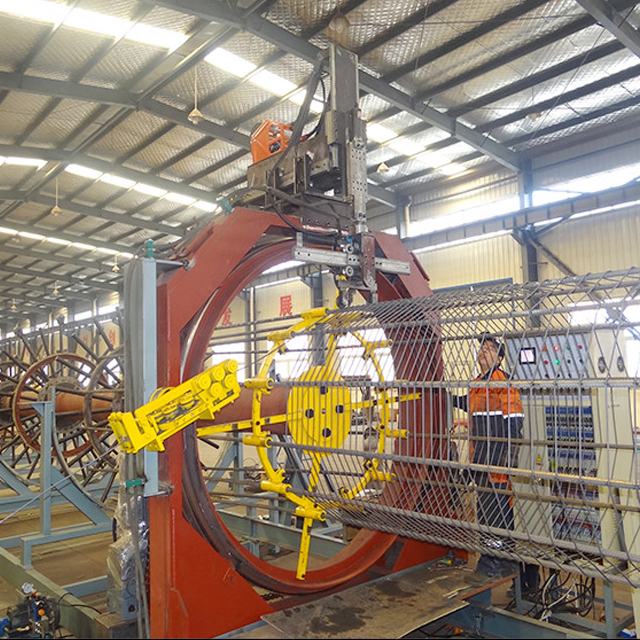
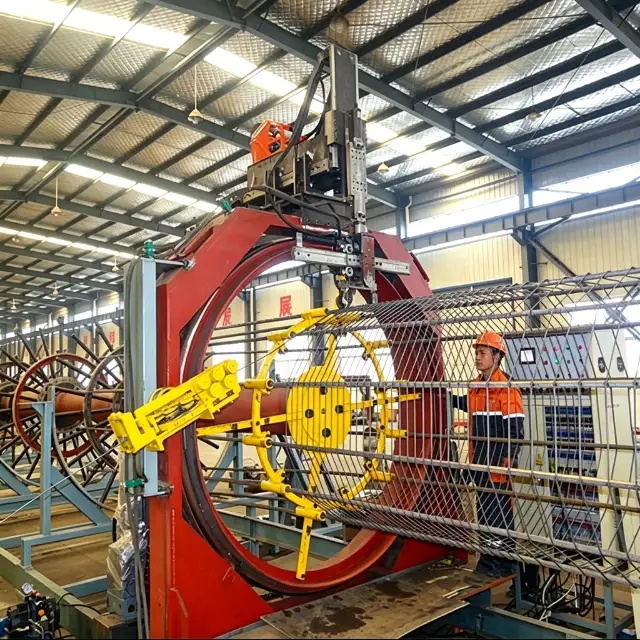
Refine spun pile landing page visuals

diff --git a/src/pages/spun-pipe-piles-production-line/App.jsx b/src/pages/spun-pipe-piles-production-line/App.jsx
@@ -19,13 +19,13 @@ import {
   Zap,
 } from "lucide-react";
 import logo from "../../assets/image/realjet-logo.webp";
-import heroImage from "../../assets/image/spun-pipe-piles-line/line-hero.jpg";
+import heroImage from "../../assets/image/spun-pipe-piles-line/line-hero.webp";
 import cageImage from "../../assets/image/spun-pipe-piles-line/cage-welding.webp";
 import spinningImage from "../../assets/image/spun-pipe-piles-line/centrifugal-spinning.webp";
 import handlingImage from "../../assets/image/spun-pipe-piles-line/handling.webp";
-import layoutImage from "../../assets/image/spun-pipe-piles-line/line-layout.jpg";
+import layoutImage from "../../assets/image/spun-pipe-piles-line/line-layout.webp";
 import mouldImage from "../../assets/image/spun-pipe-piles-line/pile-mould.webp";
-import mouldFlowImage from "../../assets/image/spun-pipe-piles-line/mould-flow.png";
+import mouldFlowImage from "../../assets/image/spun-pipe-piles-line/mould-flow.webp";
 import plantImage from "../../assets/image/spun-pipe-piles-line/plant-overview.webp";
 import UniversalEnquiryFields from "../precast-beam-factory/shared/UniversalEnquiryFields";
 import FloatingContactActions from "../precast-beam-factory/shared/FloatingContactActions";
@@ -87,12 +87,12 @@ function Button({ children, onClick, secondary = false }) {
   );
 }
 
-function SectionHeading({ eyebrow, title, copy, centered = false }) {
+function SectionHeading({ eyebrow, title, copy, centered = false, inverse = false }) {
   return (
     <div className={centered ? "mx-auto max-w-3xl text-center" : "max-w-3xl"}>
       <p className="mb-3 text-xs font-[900] tracking-[.18em] text-brand-blue uppercase">{eyebrow}</p>
-      <h2 className="text-[clamp(2rem,4vw,3.35rem)] leading-[1.08] font-[900] tracking-[-.035em] text-brand-navy">{title}</h2>
-      {copy && <p className="mt-5 text-[17px] leading-8 text-muted">{copy}</p>}
+      <h2 className={`text-[clamp(2rem,4vw,3.35rem)] leading-[1.08] font-[900] tracking-[-.035em] ${inverse ? "text-white" : "text-brand-navy"}`}>{title}</h2>
+      {copy && <p className={`mt-5 text-[17px] leading-8 ${inverse ? "text-white/68" : "text-muted"}`}>{copy}</p>}
     </div>
   );
 }
@@ -195,7 +195,7 @@ export default function App() {
             <div className="max-w-[790px]">
               <div className="mb-6 inline-flex items-center gap-2 rounded-full border border-white/18 bg-white/8 px-4 py-2 text-xs font-[850] tracking-[.12em] uppercase backdrop-blur"><Factory size={16} className="text-brand-cyan" /> Turnkey equipment and plant integration</div>
               <h1 className="text-[clamp(2.7rem,6.2vw,5.4rem)] leading-[.98] font-[950] tracking-[-.055em]">Spun Pipe Piles<br /><span className="text-[#58d0d8]">Production Line</span></h1>
-              <p className="mt-6 max-w-2xl text-[clamp(1.08rem,2vw,1.35rem)] leading-8 text-white/80">A project-specific turnkey solution for prestressed spun concrete piles—from moulds and cage preparation to centrifugal spinning, curing, demoulding, handling and line control.</p>
+              <p className="mt-6 max-w-2xl text-[clamp(1.08rem,2vw,1.35rem)] leading-8 text-white/80">Plan a new prestressed spun concrete pile plant or upgrade an existing production line with project-specific moulds, equipment and line integration—from cage preparation to spinning, curing, demoulding and handling.</p>
               <div className="mt-8 flex flex-wrap gap-3">
                 <Button onClick={() => openEnquiry("Request a turnkey plant review")}>Request a Turnkey Plant Review <ArrowRight size={17} /></Button>
                 <Button secondary onClick={() => document.querySelector("#solution")?.scrollIntoView()}>Review the Equipment Scope <ChevronRight size={17} /></Button>
@@ -267,14 +267,35 @@ export default function App() {
 
         <section className="bg-[#071f34] py-24 text-white">
           <div className="site-container">
-            <SectionHeading eyebrow="Turnkey delivery path" title="From requirement review to a commissioned production system" copy="Realjet can supply selected equipment packages or coordinate a turnkey plant boundary. The contract defines exactly what is included." />
+            <SectionHeading inverse eyebrow="Turnkey delivery path" title="From requirement review to a commissioned production system" copy="Realjet can supply selected equipment packages or coordinate a turnkey plant boundary. The contract defines exactly what is included." />
             <div className="mt-12 grid grid-cols-4 gap-4 max-[900px]:grid-cols-2 max-[520px]:grid-cols-1">{[["01", "Requirement review", "Pile drawings, standards, capacity, site and local constraints."], ["02", "Concept engineering", "Process route, layout, takt model, utilities and equipment boundary."], ["03", "Manufacturing & integration", "Equipment fabrication, controls, interfaces and pre-delivery checks."], ["04", "Installation & ramp-up", "Site support, commissioning, trials and operator training to contract scope."]].map(([n, title, text]) => <article key={n} className="rounded-xl border border-white/12 bg-white/5 p-6"><div className="text-3xl font-[950] text-brand-cyan">{n}</div><h3 className="mt-6 text-lg font-[900]">{title}</h3><p className="mt-3 text-sm leading-6 text-white/62">{text}</p></article>)}</div>
             <div className="mt-10 grid grid-cols-3 gap-5 max-[800px]:grid-cols-1">{[[cageImage, "Cage preparation", "Equipment is coordinated with reinforcement design and downstream takt."], [handlingImage, "Mould handling", "Lifting, transfer and buffers are planned around real mass and bay geometry."], [plantImage, "Plant integration", "Line layout connects production flow, access, utilities and safety zones."]].map(([image, title, text]) => <article key={title} className="overflow-hidden rounded-xl border border-white/10 bg-white/5"><img src={image} alt={`${title} reference for a spun pile production line`} className="h-52 w-full object-cover" /><div className="p-5"><h3 className="font-[900]">{title}</h3><p className="mt-2 text-sm leading-6 text-white/62">{text}</p></div></article>)}</div>
           </div>
         </section>
 
         <section className="py-24">
-          <div className="site-container grid grid-cols-[1fr_.9fr] gap-14 max-[900px]:grid-cols-1"><div><SectionHeading eyebrow="Start the engineering conversation" title="Four inputs are enough for a useful first review" copy="If some data is not available, send what you have. We can help structure the remaining questions." /><div className="mt-8 grid grid-cols-2 gap-4 max-[520px]:grid-cols-1">{[[Layers3, "Pile family", "Diameter, length, wall, reinforcement and standard"], [BarChart3, "Output target", "Daily or annual demand and planned shifts"], [Factory, "Plant site", "Available building, crane, utilities and logistics"], [Sparkles, "Preferred scope", "Equipment packages, automation level or turnkey plant"]].map(([Icon, title, text]) => <div key={title} className="rounded-xl border border-line p-5"><Icon className="text-brand-blue" size={23} /><h3 className="mt-4 font-[900] text-brand-navy">{title}</h3><p className="mt-2 text-sm leading-6 text-muted">{text}</p></div>)}</div></div><div className="rounded-2xl bg-soft p-8 shadow-card"><p className="text-xs font-[900] tracking-[.16em] text-brand-blue uppercase">Direct enquiry</p><h2 className="mt-3 text-3xl font-[900] tracking-[-.03em] text-brand-navy">Send your requirement</h2><p className="mt-3 text-sm leading-6 text-muted">Use our short form, e-mail or WhatsApp. We only ask for the information needed to reply.</p><button type="button" onClick={() => openEnquiry("Discuss a spun pipe piles production line")} className="mt-7 flex min-h-14 w-full items-center justify-center gap-2 rounded-xl bg-[#e4572e] px-5 text-sm font-[900] text-white shadow-[0_14px_30px_rgba(228,87,46,.25)]">Open enquiry form <ArrowRight size={17} /></button><div className="mt-6 border-t border-line pt-5 text-sm text-muted"><p><strong className="text-brand-navy">E-mail:</strong> sales@realjetech.com</p><p className="mt-2"><strong className="text-brand-navy">WhatsApp:</strong> +86 193 1009 0600</p></div></div></div>
+          <div className="site-container">
+            <SectionHeading eyebrow="Start the engineering conversation" title="Four inputs are enough for a useful first review" copy="If some data is not available, send what you have. We can help structure the remaining questions." />
+            <div className="mt-9 grid grid-cols-2 items-stretch gap-6 max-[900px]:grid-cols-1">
+              <div className="flex h-full flex-col justify-between rounded-2xl bg-soft p-7 shadow-card max-[520px]:p-5">
+                <div>
+                  <p className="text-xs font-[900] tracking-[.16em] text-brand-blue uppercase">Direct enquiry</p>
+                  <h3 className="mt-3 text-3xl font-[900] tracking-[-.03em] text-brand-navy">Send your requirement</h3>
+                  <p className="mt-3 max-w-lg text-sm leading-6 text-muted">Use our short form, e-mail or WhatsApp. We only ask for the information needed to reply.</p>
+                </div>
+                <div className="mt-6">
+                  <button type="button" onClick={() => openEnquiry("Discuss a spun pipe piles production line")} className="flex min-h-14 w-full items-center justify-center gap-2 rounded-xl bg-[#e4572e] px-5 text-sm font-[900] text-white shadow-[0_14px_30px_rgba(228,87,46,.25)]">Open enquiry form <ArrowRight size={17} /></button>
+                  <div className="mt-5 grid grid-cols-2 gap-3 border-t border-line pt-5 text-sm text-muted max-[520px]:grid-cols-1">
+                    <p><strong className="text-brand-navy">E-mail:</strong><br />sales@realjetech.com</p>
+                    <p><strong className="text-brand-navy">WhatsApp:</strong><br />+86 193 1009 0600</p>
+                  </div>
+                </div>
+              </div>
+              <div className="grid h-full grid-cols-2 auto-rows-fr gap-4 max-[520px]:grid-cols-1">
+                {[[Layers3, "Pile family", "Diameter, length, wall, reinforcement and standard"], [BarChart3, "Output target", "Daily or annual demand and planned shifts"], [Factory, "Plant site", "Available building, crane, utilities and logistics"], [Sparkles, "Preferred scope", "Equipment packages, automation level or turnkey plant"]].map(([Icon, title, text]) => <div key={title} className="flex min-h-[160px] flex-col rounded-xl border border-line p-5"><Icon className="text-brand-blue" size={23} /><h3 className="mt-4 font-[900] text-brand-navy">{title}</h3><p className="mt-2 text-sm leading-6 text-muted">{text}</p></div>)}
+              </div>
+            </div>
+          </div>
         </section>
 
         <section id="faq" className="bg-soft py-24"><div className="site-container"><SectionHeading centered eyebrow="Frequently asked questions" title="Questions buyers raise before layout engineering" /><div className="mx-auto mt-10 grid max-w-4xl gap-3">{[["Can Realjet supply only a mould or spinning machine?", "Yes. The delivery boundary can cover selected equipment packages or a coordinated turnkey plant, subject to technical review and contract definition."], ["Are the listed mould sizes fixed product limits?", "No. They are preliminary planning families based on mainstream configurations. Final range and mass depend on the approved pile drawing and engineering review."], ["Is the stated capacity guaranteed?", "No. The table is a concept-stage calculation. Contract capacity must be based on product mix, mould quantity, curing cycle, spinning capacity, handling, shifts and agreed acceptance conditions."], ["What is needed for a first proposal?", "Send the pile dimensions and standard, target output, available site information, preferred automation level and the delivery boundary you expect."], ["Can the control system connect line equipment?", "Yes, within the agreed scope. Recipes, interlocks, operating records and external interfaces are defined during controls engineering."]].map(([q, a]) => <details key={q} className="group rounded-xl border border-line bg-white p-5"><summary className="flex cursor-pointer list-none items-center justify-between gap-4 font-[900] text-brand-navy">{q}<span className="grid h-7 w-7 shrink-0 place-items-center rounded-full bg-soft text-brand-blue transition group-open:rotate-45">+</span></summary><p className="mt-4 max-w-3xl text-sm leading-7 text-muted">{a}</p></details>)}</div></div></section>

diff --git a/marketing/spun-pipe-piles-production-ine/index.html b/marketing/spun-pipe-piles-production-ine/index.html
@@ -17,12 +17,12 @@
     <meta property="og:title" content="Spun Pipe Piles Production Line - Turnkey Solution / Turnkey Plant - REALJET" />
     <meta property="og:description" content="A project-specific turnkey production line for prestressed spun concrete pipe piles, from mould and cage preparation to spinning, curing and handling." />
     <meta property="og:url" content="https://realjetech.com/marketing/spun-pipe-piles-production-ine/" />
-    <meta property="og:image" content="https://realjetech.com/og/spun-pipe-piles-production-line.jpg" />
+    <meta property="og:image" content="https://realjetech.com/og/spun-pipe-piles-production-line.webp" />
     <meta property="og:image:alt" content="Reference spun pipe piles production line" />
     <meta name="twitter:card" content="summary_large_image" />
     <meta name="twitter:title" content="Spun Pipe Piles Production Line - Turnkey Solution / Turnkey Plant - REALJET" />
     <meta name="twitter:description" content="Turnkey equipment and plant integration for prestressed spun concrete pipe pile production." />
-    <meta name="twitter:image" content="https://realjetech.com/og/spun-pipe-piles-production-line.jpg" />
+    <meta name="twitter:image" content="https://realjetech.com/og/spun-pipe-piles-production-line.webp" />
     <title>Spun Pipe Piles Production Line - Turnkey Solution / Turnkey Plant - REALJET</title>
   </head>
   <body>
